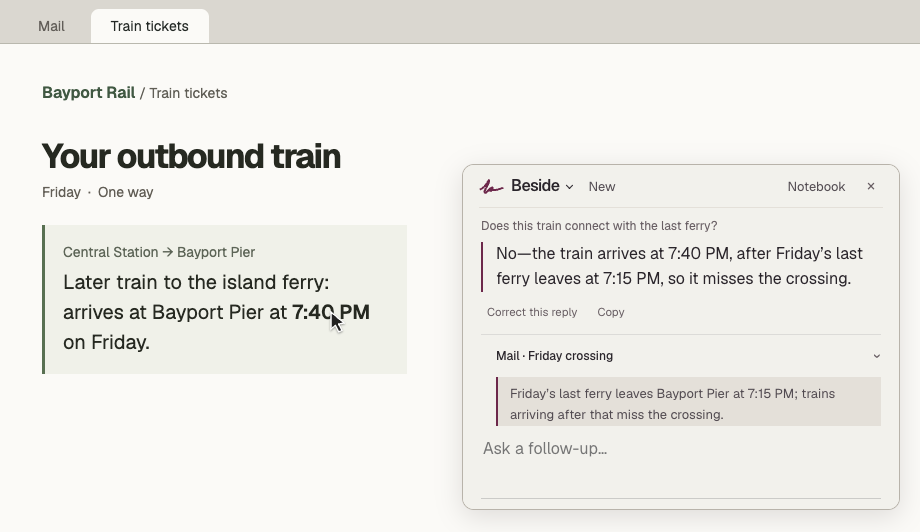
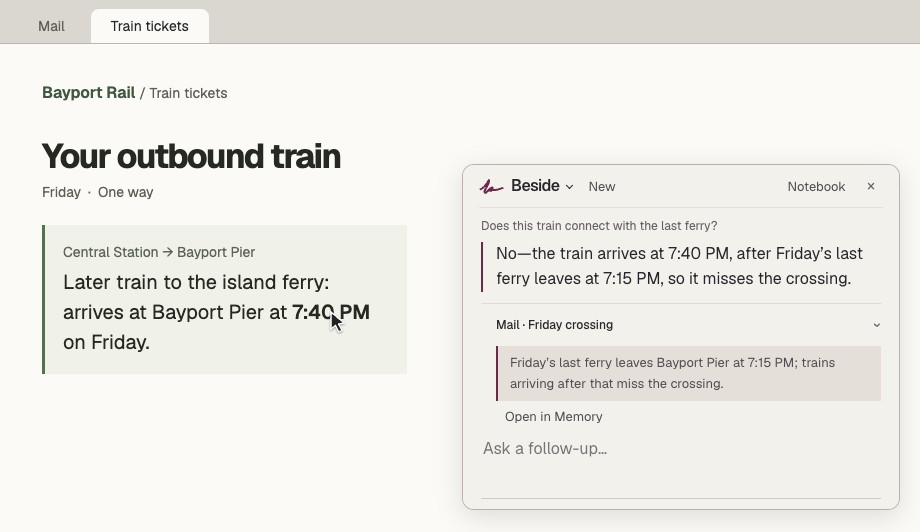
Keep the floating reply and its source together

Changed region(s): [[0.5174, 0.6617, 0.913, 0.812], [0.5174, 0.5714, 0.6696, 0.6316]]

diff --git a/src/Activity.tsx b/src/Activity.tsx
@@ -555,21 +555,6 @@ export function ActivityControls({
         </button>
       </div>
 
-      {[
-        {label: 'Apple Notes', count: config.importedAppleNotes, unit: 'notes', hint: 'Import unlocked notes into your encrypted notebook.', refresh: 'refreshAppleNotes', remove: 'removeAppleNotes'},
-        {label: 'Mail export', count: config.importedMail, unit: 'messages', hint: 'In Mail, choose Mailbox → Export Mailbox, then choose the export folder here.', refresh: 'importMailExport', remove: 'removeMailInbox'},
-      ].map(library => (
-        <section key={library.refresh} className="drawer-section">
-          <h3>{library.label}</h3>
-          <small>{library.count ? `${library.count} ${library.unit} in your local notebook.` : library.hint}</small>
-          <div className="action-row">
-            <button className="btn-sm" disabled={pending} onClick={() => void run(library.refresh, {}, library.refresh, `${library.label} refreshed.`)}>
-              {pendingKey === library.refresh ? 'Importing…' : `${library.count ? 'Refresh' : 'Import'} ${library.label}`}
-            </button>
-            {!!library.count && <button className="btn-sm" disabled={pending} onClick={() => void run(library.remove, {}, library.remove, `Imported ${library.unit} removed.`)}>Remove imported {library.unit}</button>}
-          </div>
-        </section>
-      ))}
       {displays && (
         <label className="check">
           <input type="checkbox" checked={config.openWindows === true} disabled={pending}
@@ -712,6 +697,28 @@ export function ActivityControls({
           </form>
         </fieldset>
       )}
+
+      <details>
+        <summary>Earlier notes and mail</summary>
+        <div className="details-body">
+          <small>Include older notes and messages you haven’t opened with Beside.</small>
+          {[
+            {label: 'Apple Notes', count: config.importedAppleNotes, unit: 'notes', hint: 'Import unlocked notes into your encrypted notebook.', refresh: 'refreshAppleNotes', remove: 'removeAppleNotes'},
+            {label: 'Mail export', count: config.importedMail, unit: 'messages', hint: 'In Mail, choose Mailbox → Export Mailbox, then choose the export folder here.', refresh: 'importMailExport', remove: 'removeMailInbox'},
+          ].map(library => (
+            <section key={library.refresh} className="drawer-section">
+              <h3>{library.label}</h3>
+              <small>{library.count ? `${library.count} ${library.unit} in your local notebook.` : library.hint}</small>
+              <div className="action-row">
+                <button className="btn-sm" disabled={pending} onClick={() => void run(library.refresh, {}, library.refresh, `${library.label} refreshed.`)}>
+                  {pendingKey === library.refresh ? 'Importing…' : `${library.count ? 'Refresh' : 'Import'} ${library.label}`}
+                </button>
+                {!!library.count && <button className="btn-sm" disabled={pending} onClick={() => void run(library.remove, {}, library.remove, `Imported ${library.unit} removed.`)}>Remove imported {library.unit}</button>}
+              </div>
+            </section>
+          ))}
+        </div>
+      </details>
 
       <details>
         <summary>Visual screenshots & vision</summary>
@@ -2473,6 +2480,29 @@ export function ActivitySheet({
                         ))}
                       </div>
                     )}
+                    {t.quote && (
+                      <figure className="recall-citation">
+                        <figcaption>{t.quoteTitle || 'Exact line'}</figcaption>
+                        <blockquote className="recall-line">
+                          {t.quote}
+                        </blockquote>
+                      </figure>
+                    )}
+                    {close
+                      ? answerEvidence(t, true)
+                      : t.supportingLine && (
+                          <details className="margin-footnote">
+                            <summary role="button">
+                              {t.sources?.[0]?.title?.replace(/^Screen \d+ · (.+) active$/, '$1') ||
+                                t.files?.[0]?.name || 'Supporting passage'}
+                            </summary>
+                            <blockquote>{t.supportingLine}</blockquote>
+                            <button type="button" className="bar-link" onClick={() => {
+                              inspect(i);
+                              select('journal');
+                            }}>Open in Memory</button>
+                          </details>
+                        )}
                     {!t.proposedQuery && t.answer && !t.savedMemories?.length && (
                       <div className="turn-actions">
                         {!close && !busy && (correcting === i ? (
@@ -2506,29 +2536,6 @@ export function ActivitySheet({
                         </button>
                       </div>
                     )}
-                    {t.quote && (
-                      <figure className="recall-citation">
-                        <figcaption>{t.quoteTitle || 'Exact line'}</figcaption>
-                        <blockquote className="recall-line">
-                          {t.quote}
-                        </blockquote>
-                      </figure>
-                    )}
-                    {close
-                      ? answerEvidence(t, true)
-                      : t.supportingLine && (
-                          <details className="margin-footnote">
-                            <summary role="button">
-                              {t.sources?.[0]?.title?.replace(/^Screen \d+ · (.+) active$/, '$1') ||
-                                t.files?.[0]?.name || 'Supporting passage'}
-                            </summary>
-                            <blockquote>{t.supportingLine}</blockquote>
-                            <button type="button" className="bar-link" onClick={() => {
-                              inspect(i);
-                              select('journal');
-                            }}>Open in Memory</button>
-                          </details>
-                        )}
                   </article>
               ))}
               {close && turns.length > 0 && !busy && (

diff --git a/tests/notebook.spec.ts b/tests/notebook.spec.ts
@@ -2015,20 +2015,23 @@ test('floating assistant reads an unopened local document and manages daily scre
     });
     await page.goto('/#activity');
     await page.getByRole('button', {name: 'What Beside knows'}).click();
-    await page.getByText('Options', {exact: true}).click();
-    await page.getByRole('button', {name: 'Tuck into a floating tab'}).click();
-    await page.getByRole('button', {name: 'Expand Beside'}).click();
     await page.getByRole('button', {name: 'Sources', exact: true}).click();
-    await page.getByRole('radio', {name: /Your screens/}).check();
-    await page.getByRole('button', {name: 'Start observation'}).click();
+    await page.getByRole('button', {name: 'All displays'}).click();
+    await page.getByRole('button', {name: 'Start', exact: true}).click();
     await rpc('fixtureActivity', {
       source: 'display',
       title: 'Screen 1 · Notes active',
       body: 'Window Help\nFile Edit View\nWindow Help\nWren press invitation\nThe Wren press opens Saturday at seven.\nWren press opening hours',
     });
-    await page.getByText('Folders and local files', {exact: true}).click();
-    await page.getByRole('button', {name: 'Choose a folder…'}).click();
-    await page.getByLabel('Keep daily Markdown files').check();
+    await page.getByText('Folders & local files', {exact: true}).click();
+    await page.getByRole('button', {name: '+ Choose a folder…'}).click();
+    const earlier = page.getByText('Earlier notes and mail', {exact: true});
+    const importNotes = page.getByRole('button', {name: 'Import Apple Notes'});
+    await expect(importNotes).toBeHidden();
+    await earlier.click();
+    await expect(importNotes).toBeVisible();
+    await earlier.click();
+    await page.getByLabel('Keep daily Markdown copies').check();
     const daily = join(
       folder,
       '.sumi',
@@ -2059,10 +2062,10 @@ test('floating assistant reads an unopened local document and manages daily scre
       'seven on Saturday',
     );
     await page.screenshot({path: info.outputPath('floating-file-answer.png')});
-    await page.getByText('Options', {exact: true}).click();
-    await page.getByRole('button', {name: 'Clear conversation'}).click();
-    await page.getByRole('button', {name: 'What Beside knows'}).click();
-    const recall = page.getByRole('button', {name: /Recall my last screen/});
+    await page.getByRole('button', {name: 'Ask Beside', exact: true}).click();
+    await page.getByRole('button', {name: 'New', exact: true}).click();
+    await page.getByLabel('Your question', {exact: true}).fill('What was I just looking at?');
+    const recall = page.getByRole('button', {name: 'Ask on this Mac'});
     await recall.evaluate(button =>
       button.addEventListener('click', () => performance.mark('recall-click'), {
         once: true,
@@ -2148,12 +2151,13 @@ test('floating assistant reads an unopened local document and manages daily scre
     console.log('Return to painted menu and exact quote (ms)', menuMs);
     expect(menuMs).toBeLessThan(1000);
     await page.getByRole('button', {name: 'What Beside knows'}).click();
-    await page.getByRole('button', {name: 'Pause screen memory'}).click();
+    await page.getByRole('button', {name: 'Sources', exact: true}).click();
+    await page.getByRole('button', {name: 'Pause', exact: true}).click();
     expect((await rpc('activitySettings')).enabled).toBe(false);
     await rpc('activityForget', {scope: 'all'});
     await expect(stat(daily)).rejects.toThrow();
     await page.getByRole('button', {name: 'Sources', exact: true}).click();
-    await page.getByText('Folders and local files', {exact: true}).click();
+    await page.getByText('Folders & local files', {exact: true}).click();
     await page
       .getByRole('button', {name: /Remove .*example-documents/})
       .click();
@@ -2648,7 +2652,14 @@ test('floating reply correction stays with its chat and survives reopening the n
     await expect(page.locator('.activity-turn')).toContainText(
       '8 frames and 6 clips',
     );
-    await page.getByRole('button', {name: 'Correct this reply'}).click();
+    const actions = page.locator('.activity-turn').last().locator('.turn-actions');
+    await page.getByRole('textbox', {name: 'Follow up'}).focus();
+    await page.mouse.move(1, 1);
+    await expect(actions).toHaveCSS('opacity', '0');
+    const correct = actions.getByRole('button', {name: 'Correct this reply'});
+    await correct.focus();
+    await expect(actions).toHaveCSS('opacity', '1');
+    await page.keyboard.press('Enter');
     const rule = 'For frame purchases, I always choose walnut over oak.';
     await page.getByLabel('What should I remember for next time?').fill(rule);
     await page.getByRole('button', {name: 'Save correction'}).click();

diff --git a/src/style.css b/src/style.css
@@ -1541,6 +1541,13 @@ p[role='alert'] {
   padding-top: 2px;
 }
 
+/* Keep the source with the answer. Reveal its editing tools on approach. */
+@media (hover: hover) and (pointer: fine) {
+  .floating-sheet .activity-turn:not(:hover):not(:focus-within) .turn-actions:not(:has(.reply-correction)) {
+    opacity: 0;
+  }
+}
+
 .turn-action-btn {
   min-height: 22px;
   height: 22px;

diff --git a/docs/guide.md b/docs/guide.md
@@ -1,5 +1,7 @@
 # Using Beside on your Mac
 
+Once screen memory is on, Beside can use a passage you saw earlier even after you close its window. Choose **All displays** to cover visible work across apps. An import is useful for older material you haven’t opened while Beside was observing.
+
 The floating sheet is for a question that comes up in another app. Use Chats to reopen a floating conversation, or open the notebook for longer writing and saved preferences. [Install Beside and try the shortcut](../README.md#try-beside)
 
 ## Ask from another app
@@ -36,8 +38,23 @@ New notebooks use `~/Beside`. Upgrades keep using the existing notebook folder a
 | --- | --- |
 | Floating conversations | Saved in the encrypted database. |
 | Workspace conversations, dated memories and skills | Readable Markdown copies in the notebook. Anyone with access to those files can read them. |
-| Saved screen passages and optional previews | Stored in the encrypted database. **Keep daily Markdown files** also writes readable copies in the notebook’s hidden activity-journal folder. Turning this off removes the managed daily files. They are excluded from notebook exports and the agent interface. |
+| Saved screen passages and optional previews | Stored in the encrypted database. **Keep daily Markdown copies** also writes readable copies in the notebook’s hidden activity-journal folder. Turning this off removes the managed daily files. They are excluded from notebook exports and the agent interface. |
 | Meeting recordings | Standard MP4 files in the notebook’s hidden meetings folder, outside the encrypted database. Use **Show recording in Finder** to manage them. |
+
+### Look inside your notebook
+
+In notebook Settings, choose **Open notebook folder**. In Finder, `desk/conversations/` holds workspace chats, `desk/core.md` lists core memories and `desk/pages/` groups dated memories by subject. The `scroll/` folder holds notebook entries. Saved methods live under `scroll/skills/`.
+
+You can open the Markdown in a text editor. If you prefer a shell, run these from the notebook folder once you have saved a conversation or memory.
+
+```sh
+ls desk
+cat desk/core.md
+find scroll -name '*.md'
+grep -rin 'ferry' desk scroll
+```
+
+These commands search the readable files. Beside also searches its encrypted screen history and imported passages, which a Markdown search cannot see. Use Memory to correct or retire a dated fact. Beside regenerates its Markdown summary from those records.
 
 ## Models, web search and sharing
 
@@ -73,6 +90,6 @@ Use **Correct this reply** to teach Beside a preference. A red memory mark opens
 
 ### Use Notes and Mail in proactive suggestions
 
-In **What Beside knows → Sources**, choose **Import Apple Notes**. macOS may ask for Automation access to Notes. Beside copies unlocked note titles and text into the encrypted notebook. It can then find a passage under a matching heading while Notes is closed. Choose **Refresh Apple Notes** after editing or locking notes to replace the snapshot. **Remove imported notes** clears the index. A passage you already accepted can also appear in your saved conversation. Inkling explains these suggestions locally.
+Under **What Beside knows → Sources → Earlier notes and mail**, choose **Import Apple Notes**. macOS may ask for Automation access to Notes. Beside copies unlocked note titles and text into the encrypted notebook. It can then find a passage under a matching heading while Notes is closed. Choose **Refresh Apple Notes** after editing or locking notes to replace the snapshot. **Remove imported notes** clears the index. A passage you already accepted can also appear in your saved conversation. Inkling explains these suggestions locally.
 
-In Apple Mail choose **Mailbox → Export Mailbox**, then choose **Import Mail export** in Beside and select the export folder. Beside streams the mbox files locally and replaces its previous Mail snapshot. It keeps up to 12,000 characters of message text, preferring plain text and extracting readable text from HTML locally. It skips attachments and raw messages over 24 MiB. The import reports how many messages it kept and skipped. Apple Notes and Mail each have a removal control.
+In Apple Mail choose **Mailbox → Export Mailbox**, then open **Earlier notes and mail**, choose **Import Mail export** in Beside and select the export folder. Beside streams the mbox files locally and replaces its previous Mail snapshot. It keeps up to 12,000 characters of message text, preferring plain text and extracting readable text from HTML locally. It skips attachments and raw messages over 24 MiB. The import reports how many messages it kept and skipped. Apple Notes and Mail each have a removal control.

diff --git a/README.md b/README.md
@@ -1,6 +1,6 @@
 # Beside
 
-Beside is a floating assistant for your Mac. Point at a line in another app and ask a question. Beside can connect what you’re reading to something you’ve saved, draft a reply, or show you the passage behind an answer.
+Beside is a floating assistant for your Mac. Point at the thing you’re working on and ask. It can bring back a detail from an email you read earlier, right where you need it.
 
 [Download Beside for Mac](https://github.com/pranavdulepet/beside/releases/latest/download/Beside-macOS.zip) · [Watch Beside catch a missed connection](docs/walkthroughs.md)
 
@@ -9,8 +9,8 @@ Beside is a floating assistant for your Mac. Point at a line in another app and 
 1. **Check your Mac.** Open the Apple menu → **About This Mac**. You’ll need an Apple M-series chip and macOS 14 or later. The built-in model downloads need at least 16 GB of memory.
 2. **Open Beside.** Double-click the downloaded ZIP, drag **Beside** to **Applications**, then open it. The download is ad-hoc signed. If macOS asks you to review the app, see [Apple’s guide to opening downloaded apps](https://support.apple.com/en-us/102445).
 3. **Set up local answers.** In the floating sheet, click **Notebook**, then **Use a model on this Mac**. Beside finds an installed model or offers a download that fits. Let the download finish, select **Continue**, then draw your mark or choose **Skip for now**. Local answers work without a subscription.
-4. **Give it a page to read.** Open TextEdit. Choose **Ask about this Mac** from Beside’s menu bar icon. Click the Beside mark → **Sources** → **Selected apps & sites**. Choose **+ Add open app**, pick **TextEdit**, and select **Start**. Allow Screen Recording in macOS if prompted.
-5. **Ask your first question.** In TextEdit, type “Friday’s last ferry leaves Bayport Pier at 7:15 PM.” With that line visible, tap **⌥⇧Space** (Option–Shift–Space), type **When is the last ferry?**, and press Return. Read the answer, then press **Esc** to return to TextEdit. You can also hold the shortcut to speak.
+4. **Turn on screen memory.** In the floating sheet, click the Beside mark → **Sources** → **All displays**. Allow Screen Recording, then select **Start**. Beside can now remember visible passages as you move between apps. You can pause it from the menu bar.
+5. **Ask your first question.** Open TextEdit and type “Friday’s last ferry leaves Bayport Pier at 7:15 PM.” With that line visible, tap **⌥⇧Space** (Option–Shift–Space), type **When is the last ferry?**, and press Return. Read the answer, then press **Esc** to return to TextEdit. You can also hold the shortcut to speak.
 
 ### Would I make the last ferry?
 
@@ -18,10 +18,4 @@ You’re about to book a train that arrives at 7:40 PM. Point at the train and a
 
 [![Beside checks the train arrival against the ferry operator’s email.](docs/media/ferry-connection.png)](docs/walkthroughs.md)
 
-## Make it yours
-
-Import Apple Notes or an Apple Mail mailbox in **Sources**. Next time a conversation sounds familiar, ask “Does this relate to anything I saved?” Open the source beneath the answer to check it. Choose **Correct this reply** to teach Beside a preference. You can review or retire it later.
-
-Your notebook lives on your Mac. Screen passages and floating chats use an encrypted database. Some notebook files and exports are readable in Finder. Public web searches send search terms to Exa. Cloud models can receive the context you choose to share. You can pause observation from the menu bar.
-
-[User guide and troubleshooting](docs/guide.md) · [Security](SECURITY.md) · [Build from source](docs/development.md) · [Contribute](CONTRIBUTING.md) · [License](LICENSE) · [Third-party credits](licenses/)
+[User guide and troubleshooting](docs/guide.md) · [Storage and sharing](docs/guide.md#where-your-data-lives) · [Security](SECURITY.md) · [Build from source](docs/development.md) · [Contribute](CONTRIBUTING.md) · [License](LICENSE) · [Third-party credits](licenses/)

diff --git a/docs/walkthroughs.md b/docs/walkthroughs.md
@@ -1,6 +1,6 @@
 # Would I make the last ferry?
 
-[Watch the walkthrough (MP4)](https://github.com/pranavdulepet/beside/releases/download/mac-1.4.2/beside-first-question.mp4)
+[Watch the walkthrough (MP4)](https://github.com/pranavdulepet/beside/releases/download/mac-1.4.3/beside-first-question.mp4)
 
 Earlier, you read an email from the ferry operator. Now you’re booking a Friday train to Bayport Pier. The ticket page gives the arrival time, **7:40 PM**. The ferry schedule is back in your inbox.
 
@@ -10,6 +10,6 @@ Earlier, you read an email from the ferry operator. Now you’re booking a Frida
 
 ![The train ticket beside Beside’s answer and the email line it used.](media/ferry-connection.png)
 
-To try this yourself, enable the page and Mail in **Sources**, then start observation before opening the email. You can also import an Apple Mail mailbox you choose. [First-time setup](../README.md#try-beside)
+To try this yourself, turn on **All displays** before opening the email. Beside can then recall the passage after you switch to the ticket page. [First-time setup](../README.md#try-beside)
 
 The recording uses fictional travel details, Beside’s floating interface, an isolated notebook and local Inkling. A browser test supplies the passage under the pointer in place of native macOS capture. The video trims the model wait.
